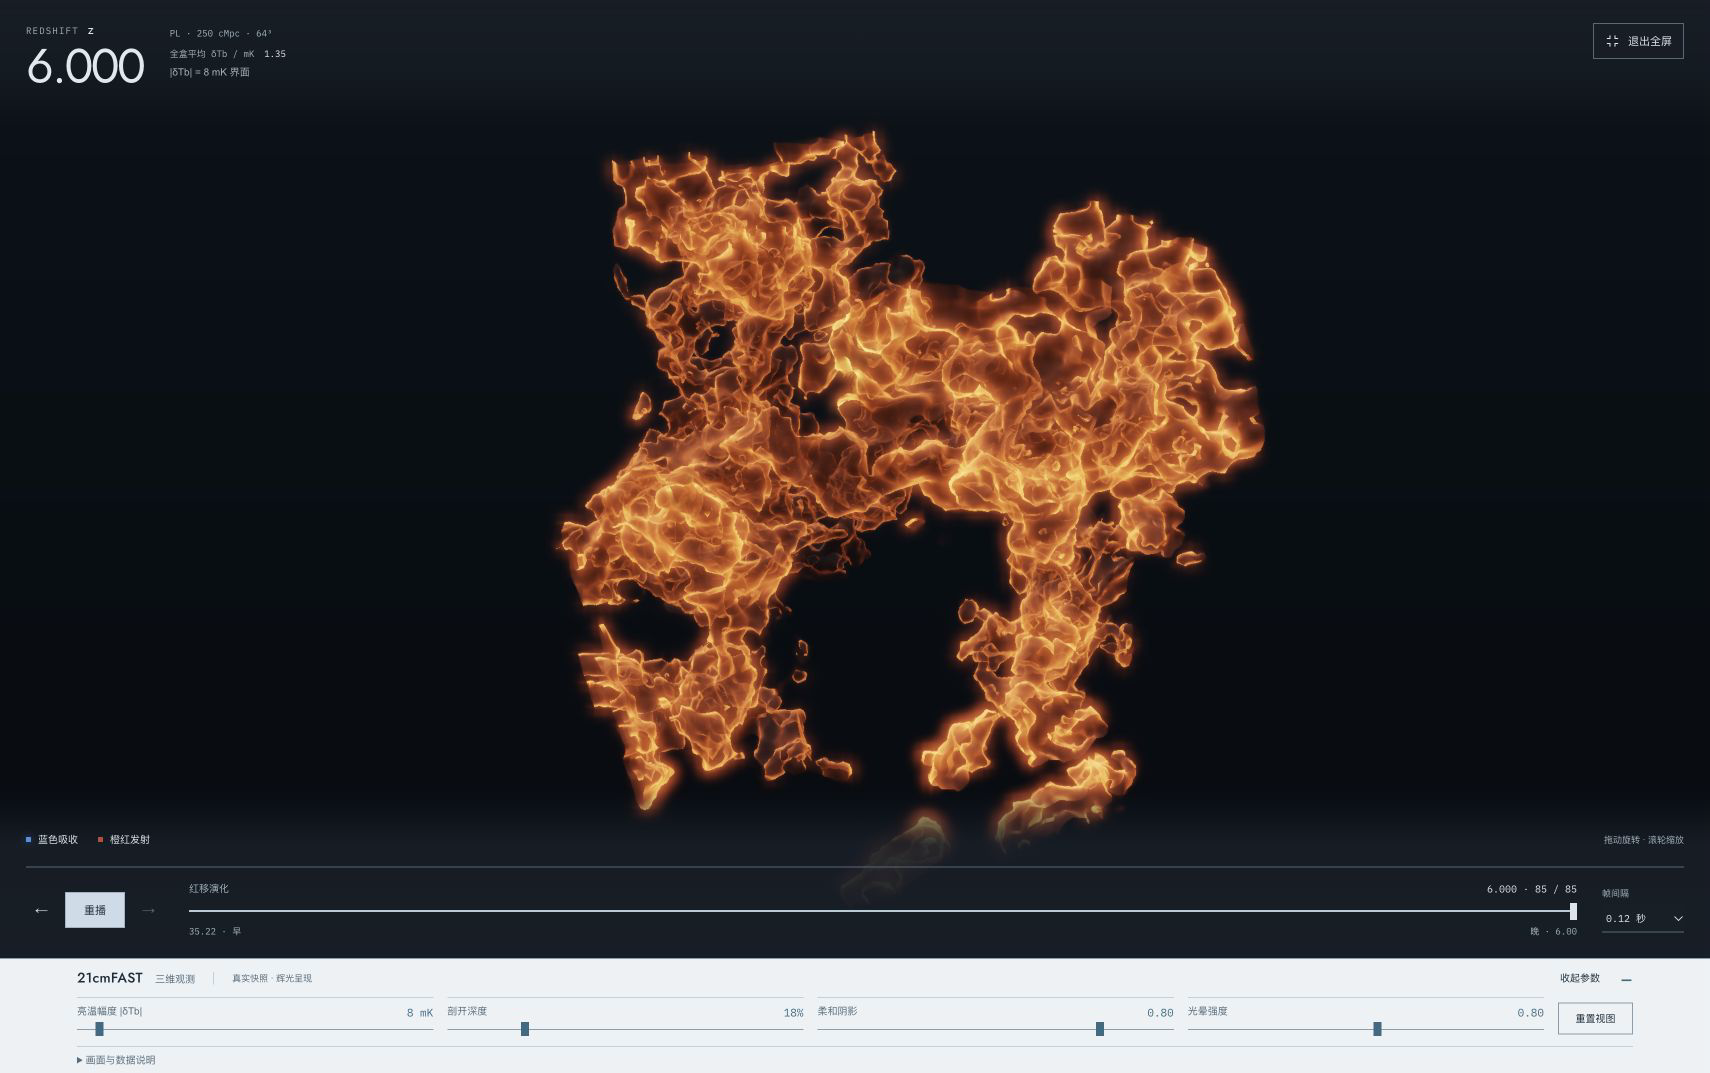
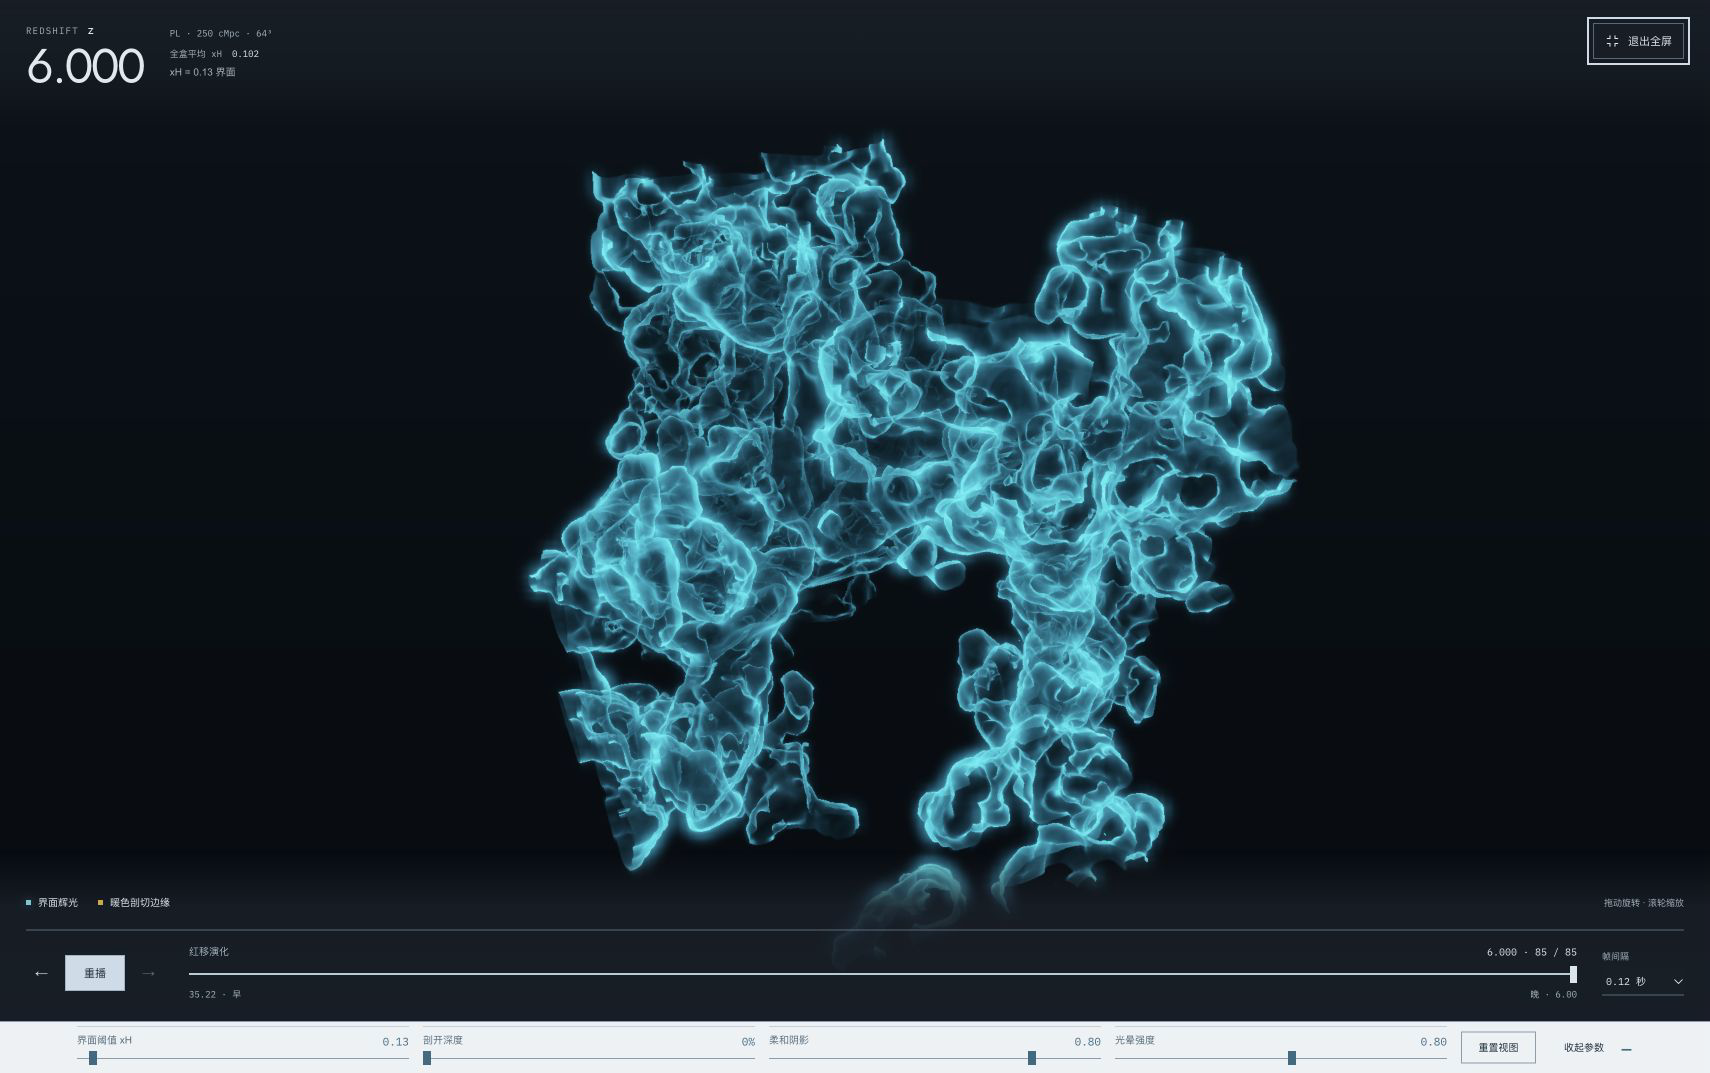
Keep only parameters and folding in the viewer dock

diff --git a/viewer-lab/cavity.css b/viewer-lab/cavity.css
@@ -136,18 +136,14 @@
 #sample-gap-key { color: #efa999; font-family: var(--font-body); font-size: 8px; }
 
 .sample-controls {
-  position: fixed; z-index: 4; inset: auto 0 0; display: flex; flex-direction: column; max-height: 48dvh; overflow: hidden;
+  position: fixed; z-index: 4; inset: auto 0 0; display: grid; grid-template-columns: minmax(0, 1fr) auto; align-items: center; column-gap: 20px; min-height: 39px; max-height: 48dvh; overflow: hidden;
   padding: 4px max(var(--page-pad), calc((100vw - var(--content-width)) / 2 + var(--page-pad))) max(4px, env(safe-area-inset-bottom));
   background: var(--background); color: var(--ink); border-top: 1px solid var(--line-strong); color-scheme: light;
 }
-.sample-console-heading { display: flex; align-items: center; flex-shrink: 0; gap: 18px; min-height: 30px; }
-.sample-console-heading h2 { font: 500 14px/1.3 var(--font-display); letter-spacing: .2px; }
-.sample-console-heading h2 span { margin-left: 8px; font: 10px/1.5 var(--font-body); color: var(--muted); letter-spacing: 0; }
-.sample-console-heading > p { padding-left: 18px; border-left: 1px solid var(--line); color: var(--muted); font-size: 9px; }
-.sample-toggle { display: inline-flex; align-items: center; justify-content: space-between; gap: 20px; min-height: 30px; margin-left: auto; padding: 2px 0 2px 12px; border: 0; background: transparent; color: var(--ink); font-size: 10px; white-space: nowrap; }
+.sample-toggle { grid-column: 2; grid-row: 1; display: inline-flex; align-items: center; justify-content: space-between; gap: 16px; min-height: 30px; padding: 2px 0 2px 8px; border: 0; background: transparent; color: var(--ink); font-size: 10px; white-space: nowrap; }
 .sample-toggle:hover { color: var(--accent); }
 #sample-toggle-mark { font: 400 22px/1 var(--font-display); color: var(--accent); }
-.sample-panel { min-height: 0; overflow-y: auto; overscroll-behavior: contain; padding-top: 4px; }
+.sample-panel { grid-column: 1; grid-row: 1; min-width: 0; min-height: 0; max-height: calc(48dvh - 10px); overflow-y: auto; overscroll-behavior: contain; }
 .sample-parameters { display: grid; grid-template-columns: repeat(4, minmax(90px, 1fr)) 75px; gap: 14px; }
 .sample-parameters > label { min-width: 0; align-self: stretch; padding: 6px 0 2px; border-top: 1px solid var(--line); }
 .sample-reset { border: 1px solid var(--line-strong); background: transparent; color: var(--ink); font-size: 10px; }
@@ -157,13 +153,7 @@
 .sample-controls input { margin-top: 3px; }
 .sample-reset { align-self: center; min-height: 32px; padding: 6px; }
 .sample-controls label:has(input:disabled) { opacity: .4; }
-.sample-cache-retry { margin-top: 8px; border: 0; border-bottom: 1px solid var(--accent); background: transparent; color: var(--ink); padding: 0 0 2px; font-size: 9px; }
-.sample-notes { margin-top: 6px; padding: 6px 0 2px; border-top: 1px solid var(--line); }
-.sample-notes summary { width: fit-content; color: var(--muted); cursor: pointer; font-size: 10px; }
-.sample-notes > div { display: grid; grid-template-columns: 1fr 1fr; gap: 25px; margin-top: 12px; }
-.sample-explainer, .sample-convention { color: var(--muted); font-size: 10px; line-height: 1.9; }
-.sample-status { margin-top: 10px; color: var(--muted); font-size: 9px; line-height: 1.7; }
-.sample-status.error { color: var(--red); }
+.sample-cache-retry { grid-column: 1/-1; justify-self: start; border: 0; border-bottom: 1px solid var(--accent); background: transparent; color: var(--ink); padding: 0 0 2px; font-size: 9px; }
 .sample-gap { position: absolute; z-index: 1; inset: 0; display: flex; flex-direction: column; align-items: center; justify-content: center; gap: 15px; padding: 120px 35px 190px; background: var(--dark); color: #d1d2c9; text-align: center; }
 .sample-gap > span { font-size: 10px; color: #d9998b; }
 .sample-gap h2 { color: var(--surface); font: 500 23px/1.3 var(--font-display); }
@@ -223,16 +213,13 @@
   .timeline-transport button { min-height: 36px; }
   .playback-speed { grid-column: 2; grid-row: 2; flex-direction: row; align-items: center; justify-content: flex-end; gap: 7px; white-space: nowrap; font-size: 8px; }
   .playback-speed select { width: 56px; height: 32px; font-size: 9px; }
-  .sample-console-heading { gap: 9px; }
-  .sample-console-heading h2 { font-size: 14px; }
-  .sample-console-heading h2 span { margin-left: 5px; font-size: 9px; }
-  .sample-console-heading > p { display: none; }
-  .sample-toggle { min-height: 34px; padding-left: 5px; font-size: 9px; gap: 15px; }
+  .sample-controls { grid-template-columns: minmax(0, 1fr); row-gap: 4px; }
+  .sample-toggle { grid-column: 1; grid-row: 1; justify-self: end; min-height: 34px; padding-left: 5px; font-size: 9px; gap: 15px; }
+  .sample-panel { grid-column: 1; grid-row: 2; max-height: calc(48dvh - 48px); }
   .sample-parameters { grid-template-columns: 1fr 1fr; gap: 4px 16px; }
   .sample-parameters > label { padding: 5px 0 1px; font-size: 9px; }
   .sample-controls output { font-size: 10px; }
   .sample-reset { grid-column: 1/3; grid-row: auto; min-height: 30px; padding: 5px; font-size: 9px; }
-  .sample-notes > div { grid-template-columns: 1fr; gap: 8px; }
   .sample-loading.is-progress { bottom: 195px; max-width: calc(100% - 32px); }
   .sample-gap { padding: 140px 20px 190px; gap: 10px; }
   .sample-gap h2 { font-size: 17px; }

diff --git a/viewer-lab/cavity.html b/viewer-lab/cavity.html
@@ -4,7 +4,7 @@
   <meta charset="utf-8"><meta name="viewport" content="width=device-width,initial-scale=1">
   <meta name="color-scheme" content="light"><title>21cm · 三维 Viewer</title>
   <link rel="preload" href="./assets/fonts/jost-latin-variable.woff2" as="font" type="font/woff2" crossorigin>
-  <link rel="stylesheet" href="./style.css"><link rel="stylesheet" href="./cavity.css?v=compact-controls-20261018">
+  <link rel="stylesheet" href="./style.css"><link rel="stylesheet" href="./cavity.css?v=minimal-dock-20261018">
 </head>
 <body class="cavity-page">
   <header class="sample-header">
@@ -39,9 +39,9 @@
         </div>
       </div>
     </section>
+    <div hidden><p id="sample-explainer"></p><p id="sample-convention"></p><p id="sample-status" role="status">读取本地真实快照…</p></div>
   </main>
   <footer class="sample-controls is-collapsed" id="sample-controls" aria-label="三维调参区">
-    <div class="sample-console-heading"><h2>21cmFAST <span>三维观测</span></h2><p>真实快照 · 辉光呈现</p><button class="sample-toggle" id="sample-toggle" aria-expanded="false" aria-controls="sample-panel" aria-label="展开参数区"><span id="sample-toggle-label">展开参数</span><span id="sample-toggle-mark" aria-hidden="true">+</span></button></div>
     <div class="sample-panel" id="sample-panel" hidden>
     <div class="sample-parameters" id="sample-parameters" hidden>
     <label><span id="sample-threshold-title">界面阈值 xH</span> <output id="sample-threshold-value">0.50</output><input id="sample-threshold" aria-label="界面阈值 xH" type="range" min="0.1" max="0.9" step="0.01" value="0.5"></label>
@@ -49,9 +49,10 @@
     <label>柔和阴影 <output id="sample-shadow-value">0.80</output><input id="sample-shadow" aria-label="柔和阴影" type="range" min="0" max="1" step="0.05" value="0.8"></label>
     <label>光晕强度 <output id="sample-bloom-value">0.80</output><input id="sample-bloom" aria-label="光晕强度" type="range" min="0" max="1.5" step="0.05" value="0.8"></label>
     <button class="sample-reset" id="sample-reset">重置视图</button>
+    <button class="sample-cache-retry" id="sample-cache-retry" hidden>重试数据预载</button>
     </div>
-    <details class="sample-notes"><summary>画面与数据说明</summary><div><p class="sample-explainer" id="sample-explainer">暖白界面勾出中性结构，剖开前侧观察内部空腔。赭红切缘标出剖切位置。</p><p class="sample-convention" id="sample-convention">辉光用于辨认结构，不表示真实发射光度或精确物理边界。</p></div><p class="sample-status" id="sample-status" role="status">读取本地真实快照…</p><button class="sample-cache-retry" id="sample-cache-retry" hidden>重试数据预载</button></details>
     </div>
+    <button class="sample-toggle" id="sample-toggle" aria-expanded="false" aria-controls="sample-panel" aria-label="展开参数区"><span id="sample-toggle-label">展开参数</span><span id="sample-toggle-mark" aria-hidden="true">+</span></button>
   </footer>
   <script type="module" src="./cavity.js?v=compact-controls-20261018"></script>
 </body>

diff --git a/viewer-lab/README.md b/viewer-lab/README.md
@@ -22,7 +22,7 @@
 
 画面右上角“全屏”将三维画面与原有控制台一起放大。全屏内可拖动红移、上一帧/下一帧、播放/暂停、调整帧间隔，以及展开详细参数。点击“退出全屏”或按 Esc 返回；切换不重建播放器、不重置参数或相机。支持标准和 WebKit 全屏接口，受限的嵌入浏览器使用铺满窗口的布局。
 
-红移滑块、帧序号、播放/暂停、逐帧切换与帧间隔直接放在三维画面底部，全屏时保持相同位置。页面底部使用紧凑的参数行，默认收起详细参数与数据说明；不显示缓存计数和进度，后台预载与缓存照常运行，预载失败时可在数据说明中重试。右侧“展开参数 / 收起参数”支持鼠标和键盘，收起不会打断播放。折叠偏好在本地保存，刷新后恢复；浏览器禁用偏好存储时仍可正常折叠。隐藏参数不进入键盘焦点顺序。画布按控制台实际高度调整，矮窗口中的详细参数可滚动；短画布自动精简顶部附加读数，保留红移与播放。画面与数据说明可单独展开。
+红移滑块、帧序号、播放/暂停、逐帧切换与帧间隔直接放在三维画面底部，全屏时保持相同位置。页面底部只保留显示参数、重置视图与折叠按钮，宽屏时并排显示；不显示标题、标语、缓存计数和进度。后台预载与缓存照常运行，预载失败时出现重试按钮。右侧“展开参数 / 收起参数”支持鼠标和键盘，收起不会打断播放。折叠偏好在本地保存，刷新后恢复；浏览器禁用偏好存储时仍可正常折叠。隐藏参数不进入键盘焦点顺序。画布按控制台实际高度调整，矮窗口中的详细参数可滚动；短画布自动精简顶部附加读数，保留红移与播放。渲染与数据约定见本文后续章节。
 
 界面沿用个人网页 `personal-archive` 的浅色主题：背景 `#edf2f5`、面板 `#e2eaf0`、文字 `#182e3b`、次级文字 `#526d7d`、细线 `#c0d0db`、操作色 `#356b83`。本地 Jost / IBM Plex Mono 字体及 SIL 授权、来源保存在 `assets/fonts/`。三维材质和数据色表独立于界面主题。
 
